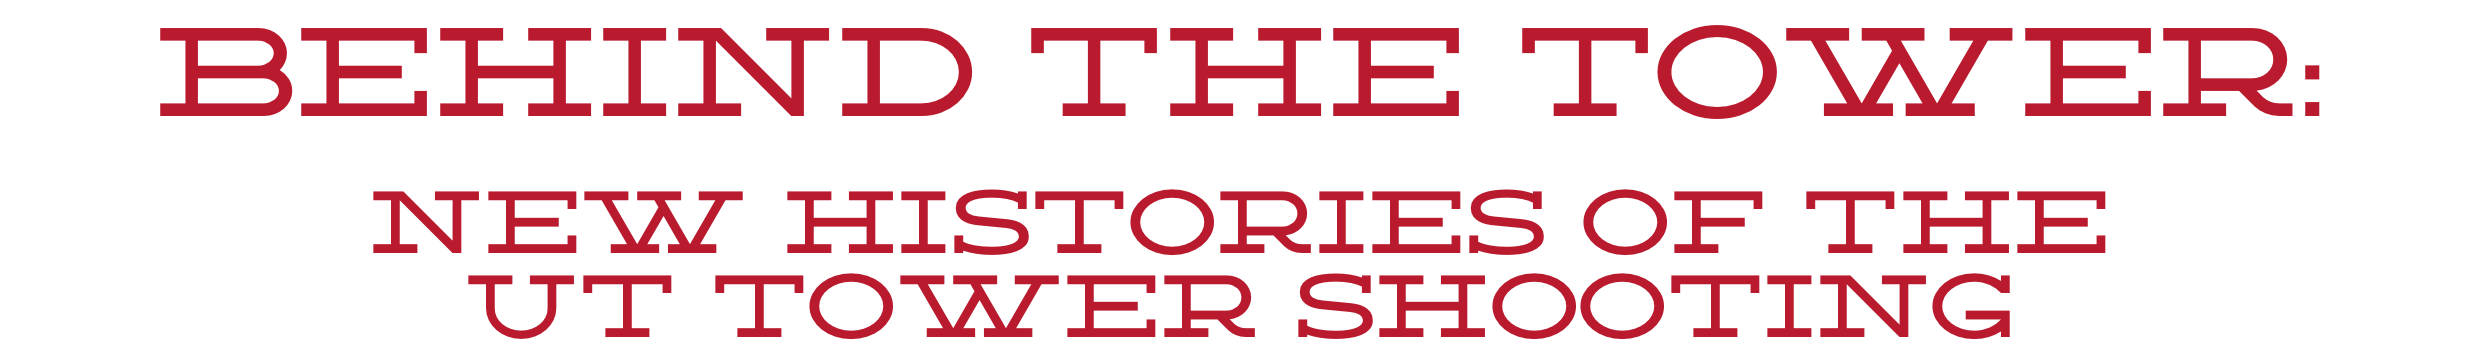
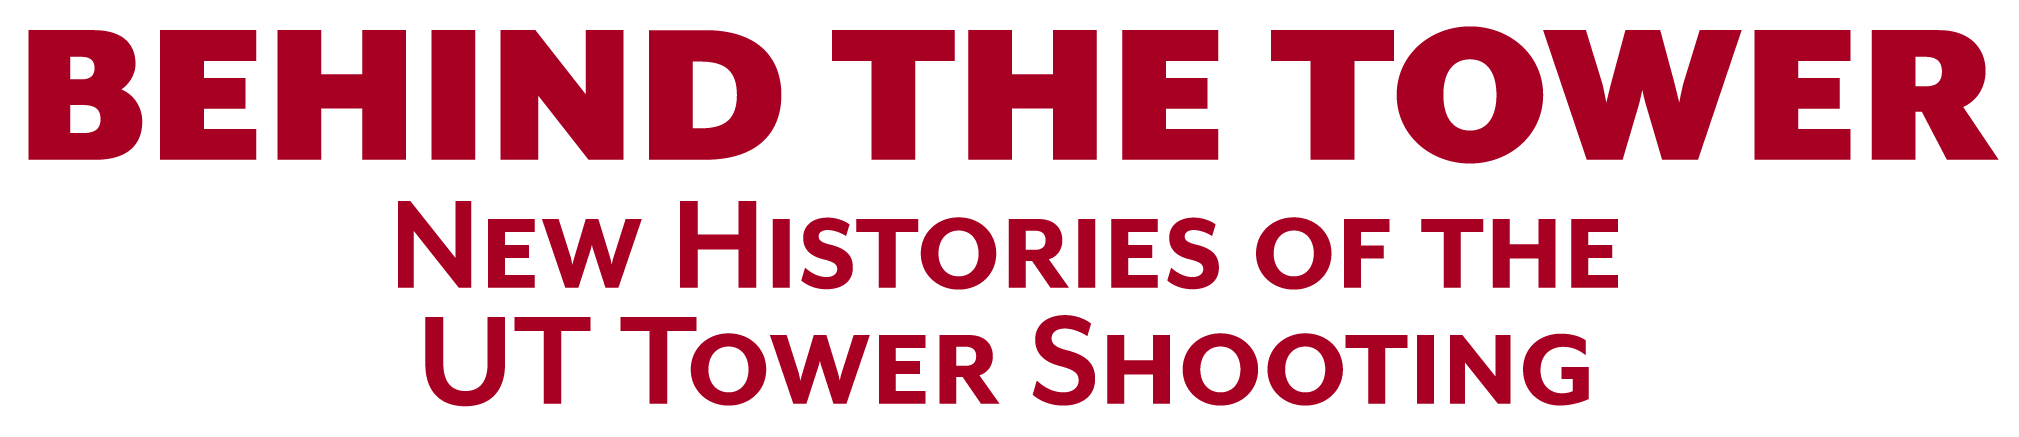
Deploy new title presentation

diff --git a/css/main.css b/css/main.css
@@ -174,8 +174,8 @@ body.homepage article {
     left: 0;
     z-index: 0; }
 body.homepage header {
-  padding-top: 4em;
-  padding-bottom: 4em; }
+  padding-top: 8em;
+  padding-bottom: 8em; }
 body.homepage .post-content {
   background-color: #fff;
   padding-right: 2em;
@@ -248,6 +248,10 @@ body.homepage .footnotes {
           text-decoration: underline; }
 
 @media (max-width: 992px) {
+  body.homepage header {
+    padding-top: 4em;
+    padding-bottom: 4em; }
+
   .hide-below-md {
     display: none; }
 
